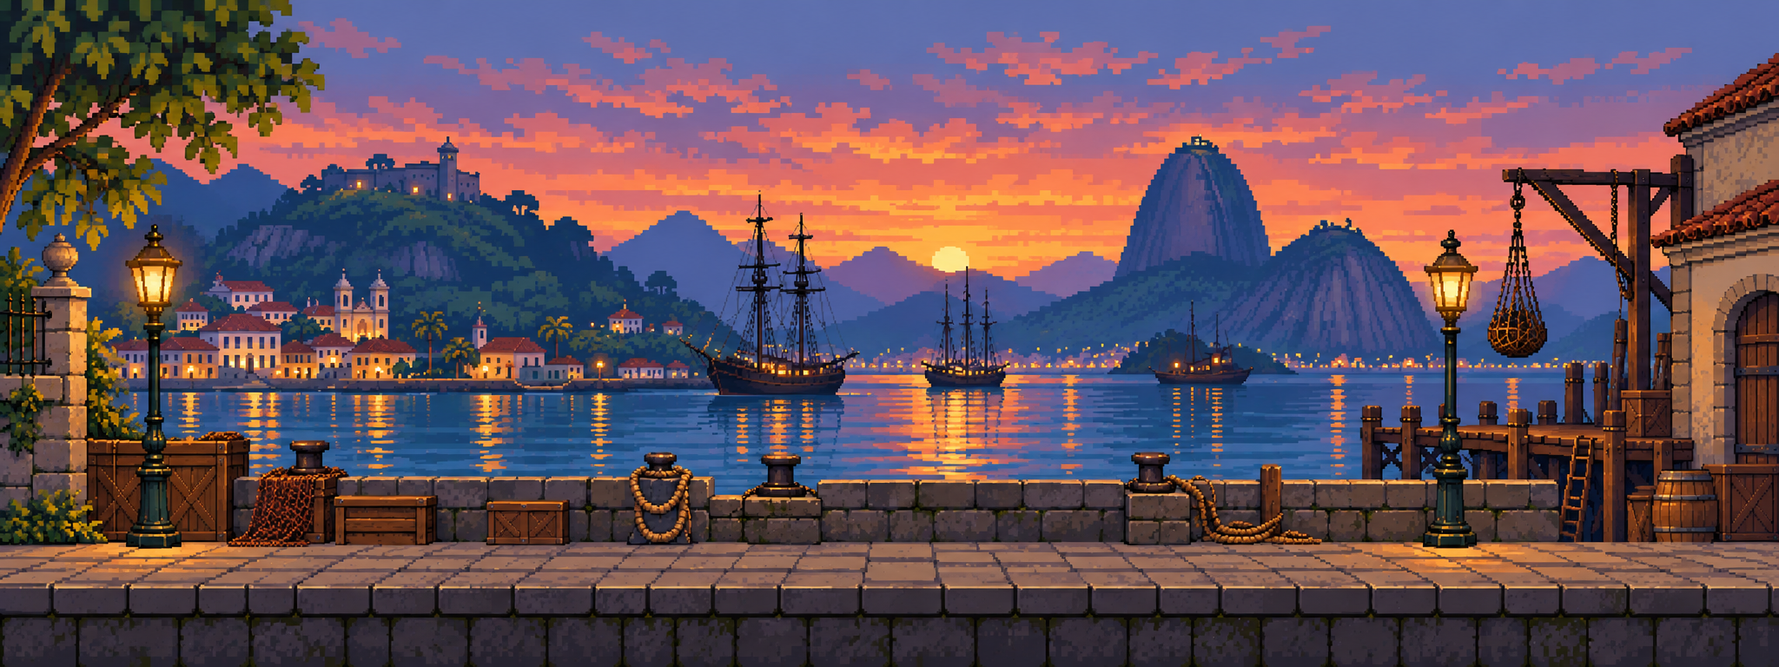
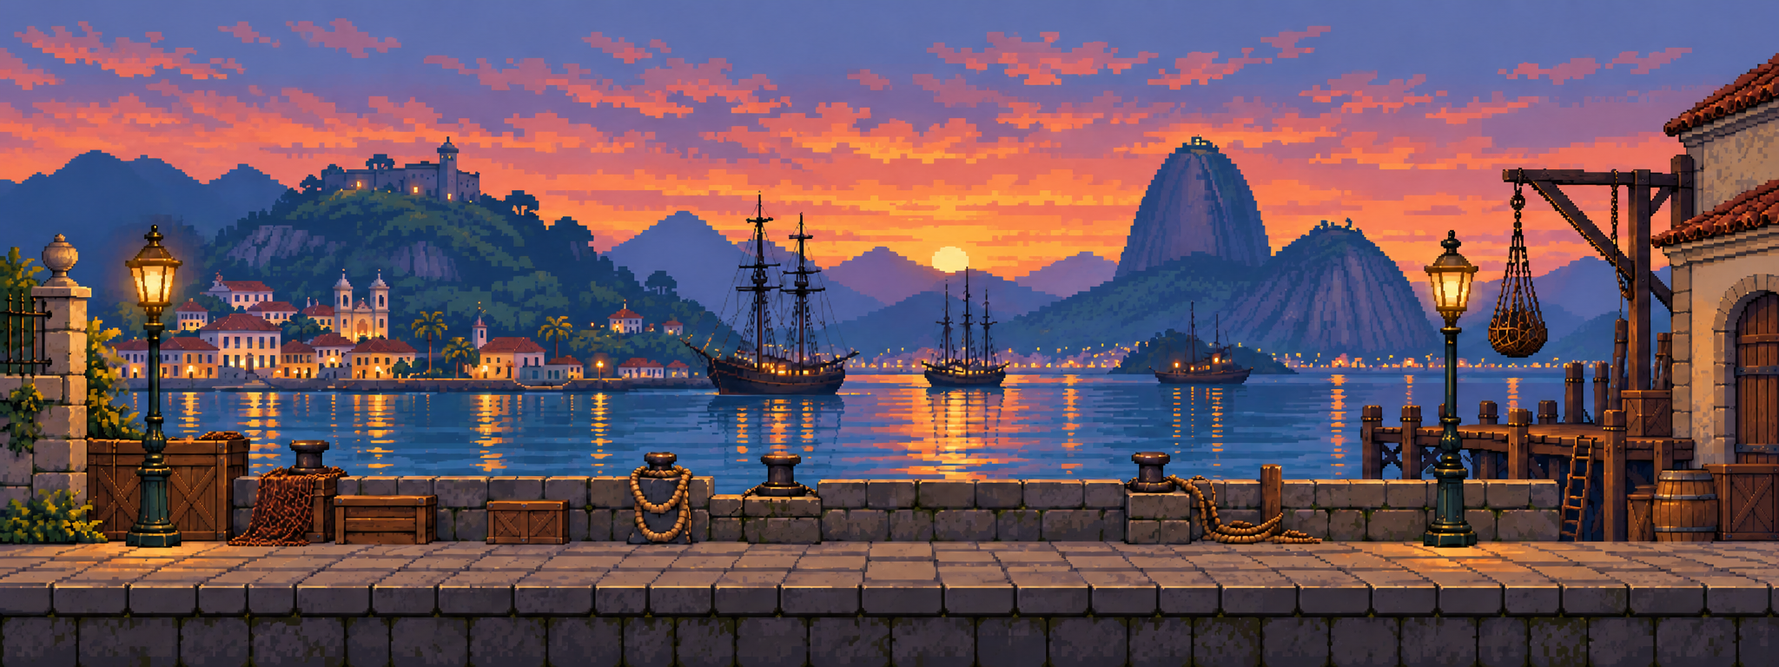
fix: alinha personagens e adiciona arte investigativa

diff --git a/frontend/game/main.ts b/frontend/game/main.ts
@@ -35,7 +35,7 @@ app.innerHTML = `
   <div id="exit-overlay" class="overlay" hidden><section class="exit-modal" role="dialog" aria-modal="true" aria-labelledby="exit-title" aria-describedby="exit-description"><header class="modal-heading"><div><p class="eyebrow">NO FIM DESTA RUA</p><h2 id="exit-title">Por onde seguimos?</h2></div><button class="icon-button" id="close-exit" aria-label="Ficar neste local" type="button">×</button></header><p id="exit-description">Escolha um caminho para continuar a investigação.</p><div id="exit-destinations" class="exit-destinations"></div><p id="exit-status" class="status" role="status" aria-live="polite"></p><button id="stay-here" class="button secondary" type="button">Ficar neste local</button></section></div>
 
   <div id="dialogue-overlay" class="overlay dialogue-overlay" hidden><section class="dialogue-modal" role="dialog" aria-modal="true" aria-labelledby="dialogue-name"><aside class="persona-panel"><div class="persona-frame"><img id="persona-portrait" src="" alt=""/></div><p class="eyebrow">DEPOIMENTO</p><h2 id="dialogue-name"></h2><span class="persona-flourish" aria-hidden="true">— ✦ —</span><p>Nem toda verdade vem à primeira pergunta.</p></aside><div class="conversation-panel"><header class="conversation-heading"><div><span class="conversation-dot"></span><span>Conversa com Floriano</span></div><button id="close-dialogue" class="icon-button" type="button" aria-label="Encerrar conversa">×</button></header><div id="messages" class="messages" role="log" aria-live="polite"></div><div id="dialogue-status" class="status dialogue-status" role="status" aria-live="polite"></div><div id="evidence-presenter" class="evidence-presenter" hidden><label for="present-evidence">Mostrar um vestígio</label><div><select id="present-evidence"></select><button id="present-button" class="button small" type="button">Apresentar</button></div><p id="presentation-status" role="status" aria-live="polite"></p></div><form id="message-form" class="message-form"><label class="sr-only" for="message-input">Sua pergunta</label><textarea id="message-input" rows="2" maxlength="8000" placeholder="O que você gostaria de perguntar?" required></textarea><button id="send-message" class="button primary" type="submit" aria-label="Enviar pergunta">Enviar <span aria-hidden="true">→</span></button></form><p class="form-hint">Enter para enviar · Shift + Enter para uma nova linha</p></div></section></div>
-  <div id="journal-overlay" class="overlay" hidden><section class="journal-modal case-modal" role="dialog" aria-modal="true" aria-labelledby="journal-title"><header class="modal-heading"><div><p class="eyebrow">EDIÇÃO DA MANHÃ · <span id="journal-day"></span></p><h2 id="journal-title">O Clarim do Rio</h2></div><button id="close-journal" class="icon-button" type="button" aria-label="Fechar jornal">×</button></header><p class="journal-motto">Os acontecimentos da cidade, à luz do dia.</p><h3 id="journal-headline"></h3><p id="journal-body"></p><p id="journal-location" class="journal-location"></p><button id="read-journal" class="button primary" type="button">Continuar a investigação</button></section></div>
+  <div id="journal-overlay" class="overlay" hidden><section class="journal-modal case-modal" role="dialog" aria-modal="true" aria-labelledby="journal-title"><header class="newspaper-masthead"><div class="newspaper-dateline"><span>RIO DE JANEIRO</span><span>EDIÇÃO DA MANHÃ</span><button id="close-journal" class="icon-button" type="button" aria-label="Fechar jornal">×</button></div><h2 id="journal-title">O Clarim do Rio</h2><div class="newspaper-edition"><span>NOTÍCIAS DA CIDADE · 1890</span><span id="journal-day"></span></div></header><article class="newspaper-story"><p class="journal-motto">Os acontecimentos da cidade, à luz do dia.</p><h3 id="journal-headline"></h3><figure id="journal-snapshot" class="journal-snapshot" hidden><img src="/assets/press/crime-scene-snapshot.png" alt="Registro monocromático de uma rua carioca à noite, com um chapéu caído e pegadas no calçamento."/><figcaption id="journal-snapshot-caption"></figcaption></figure><p id="journal-body"></p><p id="journal-location" class="journal-location"></p></article><button id="read-journal" class="button primary" type="button">Continuar a investigação</button></section></div>
   <div id="notebook-overlay" class="overlay" hidden><section class="case-modal notebook-modal" role="dialog" aria-modal="true" aria-labelledby="notebook-title"><header class="modal-heading"><div><p class="eyebrow">O CADERNO DE FLORIANO</p><h2 id="notebook-title">Vestígios e versões</h2></div><button id="close-notebook" class="icon-button" type="button" aria-label="Fechar caderno">×</button></header><p class="case-note">Um objeto pode ter muitos donos. Um depoimento registra uma versão, não uma certeza.</p><h3>Vestígios recolhidos</h3><div id="evidence-list" class="evidence-list"></div><h3>Depoimentos sobre objetos</h3><div id="testimony-list" class="testimony-list"></div><h3>Cenas conhecidas</h3><div id="crime-list" class="crime-list"></div></section></div>
   <div id="delegate-overlay" class="overlay" hidden><section class="case-modal delegate-modal" role="dialog" aria-modal="true" aria-labelledby="delegate-title"><header class="modal-heading"><div><p class="eyebrow">UM PEDIDO DE PRISÃO</p><h2 id="delegate-title">Na presença do delegado</h2></div><button id="close-delegate" class="icon-button" type="button" aria-label="Dispensar delegado">×</button></header><p class="case-note">Apresente objetos e depoimentos que sustentem sua suspeita. Se o delegado aceitar, haverá detenção nesta noite. A transformação na cela será a prova final.</p><form id="accusation-form"><label class="field-label" for="accused-npc">Quem você acusa?</label><select id="accused-npc" required></select><fieldset><legend>Vestígios</legend><div id="accusation-evidence"></div></fieldset><fieldset><legend>Depoimentos registrados</legend><div id="accusation-testimonies"></div></fieldset><p id="accusation-status" class="status" role="status" aria-live="polite"></p><button id="submit-accusation" class="button primary" type="submit">Apresentar acusação</button></form><div id="accusation-history"></div></section></div>
   <div id="phase-overlay" class="overlay phase-overlay" hidden><section class="case-modal phase-modal" role="dialog" aria-modal="true" aria-labelledby="phase-title" aria-describedby="phase-description"><span class="phase-moon" aria-hidden="true">☾</span><p class="eyebrow" id="phase-eyebrow">A CIDADE RECOLHE-SE</p><h2 id="phase-title">A noite guarda seus segredos.</h2><p id="phase-description">Floriano aguarda a manhã. Os acontecimentos serão publicados no Clarim do Rio.</p><p id="phase-countdown" role="status" aria-live="polite"></p><button id="ending-new-case" class="button primary" type="button" hidden>Iniciar outro caso</button></section></div>
@@ -329,6 +329,13 @@ function addText(parent: HTMLElement, tag: string, text: string, className?: str
 
 function locationName(id: LocationID) {return locations.find(location => location.id === id)?.name ?? id;}
 function itemKind(evidence: CaseEvidence) {return {unique: 'Exclusivo', singular: 'Singular', common: 'Comum'}[evidence.kind];}
+function itemArt(itemId: string, kind: CaseEvidence['kind']) {
+  const wrapper = document.createElement('span'); wrapper.className = `item-art item-art-${kind}`; wrapper.setAttribute('aria-hidden', 'true');
+  const svg = document.createElementNS('http://www.w3.org/2000/svg', 'svg'); svg.setAttribute('viewBox', '0 0 64 64');
+  const use = document.createElementNS('http://www.w3.org/2000/svg', 'use');
+  use.setAttribute('href', `/assets/items/item-icons.svg#${itemId}`); svg.append(use); wrapper.append(svg);
+  return wrapper;
+}
 
 async function applyCase(next: CasePublic, initial = false) {
   if (!world || (!initial && $('#investigation').hidden) || next.game_id !== world.game_id || (caseState && next.revision < caseState.revision)) return;
@@ -394,6 +401,10 @@ function renderJournal() {
   $('#journal-headline').textContent = edition?.headline ?? 'Uma cidade à espera de respostas';
   $('#journal-body').textContent = edition?.body ?? 'A edição desta manhã está sendo preparada.';
   $('#journal-location').textContent = edition?.location_id ? `Acontecimento registrado: ${locationName(edition.location_id)}.` : 'Nenhuma nova cena de crime foi anunciada.';
+  const snapshot = $<HTMLElement>('#journal-snapshot');
+  snapshot.hidden = !edition?.victim_id;
+  $('#journal-snapshot-caption').textContent = edition?.location_id
+    ? `Registro da madrugada · ${locationName(edition.location_id)}` : 'Registro de arquivo do Clarim do Rio';
 }
 
 function renderCase() {
@@ -413,14 +424,17 @@ function renderNotebook() {
   const inventory = $('#evidence-list'); inventory.replaceChildren();
   for (const evidence of caseState.inventory) {
     const item = document.createElement('article'); item.className = 'evidence-card'; item.dataset.evidenceId = evidence.id;
-    addText(item, 'span', itemKind(evidence), 'evidence-kind'); addText(item, 'h4', evidence.name);
-    addText(item, 'p', evidence.description); inventory.append(item);
+    item.append(itemArt(evidence.item_id, evidence.kind));
+    const details = document.createElement('div'); details.className = 'evidence-details';
+    addText(details, 'span', itemKind(evidence), 'evidence-kind'); addText(details, 'h4', evidence.name);
+    addText(details, 'p', evidence.description); item.append(details); inventory.append(item);
   }
   if (!caseState.inventory.length) addText(inventory, 'p', 'Nenhum vestígio recolhido. Procure as marcas de cena do crime no cenário.', 'empty-case');
   const testimonyList = $('#testimony-list'); testimonyList.replaceChildren();
   for (const testimony of caseState.testimonies) {
     const item = document.createElement('article'); item.className = 'testimony-card';
     const evidence = caseState.inventory.find(item => item.id === testimony.evidence_id);
+    if (evidence) item.append(itemArt(evidence.item_id, evidence.kind));
     addText(item, 'h4', `${testimony.witness_name} · dia ${testimony.day}`);
     addText(item, 'small', evidence?.name ?? 'Vestígio apresentado'); addText(item, 'p', testimony.text); testimonyList.append(item);
   }
@@ -431,11 +445,16 @@ function renderNotebook() {
 
 function renderPresentation() {
   const panel = $('#evidence-presenter'); const select = $<HTMLSelectElement>('#present-evidence');
+  let preview = $('#presented-evidence-art');
+  if (!preview) {preview = document.createElement('span'); preview.id = 'presented-evidence-art'; preview.className = 'item-art-preview'; select.before(preview);}
   const selected = select.value; select.replaceChildren();
   for (const evidence of caseState?.inventory ?? []) {
     const option = document.createElement('option'); option.value = evidence.id; option.textContent = evidence.name; select.append(option);
   }
   if ([...select.options].some(option => option.value === selected)) select.value = selected;
+  const selectedEvidence = caseState?.inventory.find(item => item.id === select.value);
+  preview.replaceChildren();
+  if (selectedEvidence) preview.append(itemArt(selectedEvidence.item_id, selectedEvidence.kind));
   panel.hidden = !caseState?.inventory.length;
   $('#present-button').toggleAttribute('disabled', busy || caseClock.blocked());
 }
@@ -447,16 +466,19 @@ function renderAccusation() {
     const option = document.createElement('option'); option.value = member.character.id; option.textContent = member.character.name; select.append(option);
   }
   if ([...select.options].some(option => option.value === selected)) select.value = selected;
-  const renderChoice = (container: HTMLElement, name: string, id: string, text: string) => {
+  const renderChoice = (container: HTMLElement, name: string, id: string, text: string, item?: CaseEvidence) => {
     const label = document.createElement('label'); label.className = 'proof-choice';
     const checkbox = document.createElement('input'); checkbox.type = 'checkbox'; checkbox.name = name; checkbox.value = id;
-    const title = document.createElement('span'); title.textContent = text; label.append(checkbox, title); container.append(label);
+    const title = document.createElement('span'); title.textContent = text; label.append(checkbox);
+    if (item) label.append(itemArt(item.item_id, item.kind));
+    label.append(title); container.append(label);
   };
   const evidence = $('#accusation-evidence'); evidence.replaceChildren();
-  caseState.inventory.forEach(item => renderChoice(evidence, 'evidence', item.id, `${item.name} · ${itemKind(item)}`));
+  caseState.inventory.forEach(item => renderChoice(evidence, 'evidence', item.id, `${item.name} · ${itemKind(item)}`, item));
   if (!caseState.inventory.length) addText(evidence, 'p', 'Você ainda não recolheu vestígios.', 'empty-case');
   const testimonies = $('#accusation-testimonies'); testimonies.replaceChildren();
-  caseState.testimonies.forEach(item => renderChoice(testimonies, 'testimony', item.id, `${item.witness_name}: ${item.text}`));
+  const inventorySnapshot = caseState.inventory;
+  caseState.testimonies.forEach(item => renderChoice(testimonies, 'testimony', item.id, `${item.witness_name}: ${item.text}`, inventorySnapshot.find(evidence => evidence.id === item.evidence_id)));
   if (!caseState.testimonies.length) addText(testimonies, 'p', 'Nenhum depoimento sobre objetos registrado.', 'empty-case');
   const attempted = caseState.accusations.some(accusation => accusation.day === caseState?.day);
   $('#submit-accusation').toggleAttribute('disabled', busy || caseClock.blocked() || attempted);
@@ -523,6 +545,7 @@ async function submitAccusation(event: Event) {
 setInterval(renderClock, 250);
 $('#inspect-crime').addEventListener('click', () => {void searchCrime();});
 $('#present-button').addEventListener('click', () => {void presentEvidence();});
+$('#present-evidence').addEventListener('change', () => renderPresentation());
 $('#accusation-form').addEventListener('submit', event => {void submitAccusation(event);});
 for (const panel of ['journal', 'notebook', 'delegate'] as const) {
   $(`#open-${panel}`).addEventListener('click', () => {void openCasePanel(panel);});

diff --git a/frontend/game/style.css b/frontend/game/style.css
@@ -225,24 +225,43 @@ kbd{font:10px/1.2 Arial,sans-serif;min-width:21px;padding:4px 5px;border:1px sol
 .case-modal .button.secondary{color:var(--ink)}
 .case-modal h3{font-size:23px;font-weight:normal;margin:25px 0 16px}
 .case-note,.empty-case{font:12px/1.75 Arial,sans-serif;color:#768065}
-.journal-modal{width:min(650px,100%);padding:35px 42px;text-align:center;background:linear-gradient(110deg,#f4ecd6,#e9dfc2)}
-.journal-modal .modal-heading{border-bottom:3px double #9e8d63;padding-bottom:20px;text-align:left}
-.journal-modal .modal-heading h2{font-size:37px;letter-spacing:-.03em}
-.journal-modal #journal-day{display:inline;width:auto;height:auto;background:none;margin:0;white-space:nowrap;vertical-align:baseline}
-.journal-motto{font:italic 12px Georgia,serif;border-bottom:1px solid #a9946b;padding:0 0 18px;color:#827956}
-.journal-modal h3{font-size:34px;line-height:1.16;margin-top:35px}
-#journal-body{font:16px/1.85 Georgia,serif;text-align:left}
-.journal-location{font:11px/1.7 Arial,sans-serif;color:#7c7f60;text-align:left;margin:22px 0 30px}
+.journal-modal{width:min(720px,100%);padding:22px 32px 28px;text-align:center;background:repeating-linear-gradient(0deg,#efe6ce 0,#efe6ce 4px,#eee4cb 5px,#efe6ce 7px)}
+.newspaper-masthead{position:relative;color:#26251f;border-bottom:4px double #35342d;padding-bottom:9px}
+.newspaper-dateline,.newspaper-edition{display:flex;align-items:center;justify-content:space-between;font:8px/1.4 Arial,sans-serif;letter-spacing:.15em;color:#555247}
+.newspaper-dateline{padding-right:30px}
+.newspaper-dateline .icon-button{position:absolute;right:0;top:-10px}
+.newspaper-masthead h2{font:bold 43px/.95 Georgia,serif;letter-spacing:-.045em;margin:11px 0 8px;color:#26251f}
+.newspaper-edition span:last-child{font-weight:bold}
+.newspaper-story{padding:0 2px;text-align:left;color:#292821}
+.journal-motto{font:italic 11px Georgia,serif;text-align:center;border-bottom:1px solid #a9946b;padding:11px 0;color:#716b58;margin:0}
+.journal-modal h3{font:bold 29px/1.08 Georgia,serif;letter-spacing:-.02em;margin:18px 0 13px;text-align:left;color:#25241f}
+.journal-snapshot{float:right;width:43%;margin:1px 0 14px 18px;padding:4px;background:#faf5e8;border:1px solid #9f967d;box-shadow:2px 3px 0 #655e4e30}
+.journal-snapshot img{display:block;width:100%;aspect-ratio:3/2;object-fit:cover;filter:grayscale(1) contrast(1.08);image-rendering:pixelated}
+.journal-snapshot figcaption{font:8px/1.5 Arial,sans-serif;letter-spacing:.06em;text-transform:uppercase;color:#625d50;padding:5px 2px 1px}
+#journal-body{font:14px/1.7 Georgia,serif;text-align:justify;margin:0 0 15px;white-space:pre-line}
+.journal-location{clear:both;font:9px/1.6 Arial,sans-serif;letter-spacing:.08em;text-transform:uppercase;color:#716b58;text-align:left;margin:16px 0 22px;padding-top:8px;border-top:1px solid #bcb194}
+.journal-modal>#read-journal{margin-top:10px}
 .evidence-list{display:grid;grid-template-columns:repeat(2,minmax(0,1fr));gap:12px}
-.evidence-card{padding:17px;background:#faf6e8;border:1px solid #c5ba95}
+.evidence-card{display:grid;grid-template-columns:68px minmax(0,1fr);gap:13px;align-items:center;padding:12px;background:#faf6e8;border:1px solid #c5ba95}
+.item-art{display:grid;place-items:center;flex:0 0 54px;width:54px;height:54px;background:#e9dfc7;border:1px solid #c2b58f;image-rendering:pixelated}
+.item-art svg{display:block;width:46px;height:46px;shape-rendering:crispEdges}
+.item-art-unique{background:#ece2c9;border-color:#a8884d}
+.item-art-singular{background:#e7e4d2;border-color:#879076}
+.item-art-common{background:#eee9dc;border-color:#c5ba95}
+.evidence-details{min-width:0}
 .evidence-kind{font:8px Arial,sans-serif;letter-spacing:.14em;text-transform:uppercase;color:#9a7a3d}
 .evidence-card h4,.testimony-card h4{font-size:17px;font-weight:normal;margin:8px 0}
 .evidence-card p,.testimony-card p,.crime-list p{font:12px/1.8 Arial,sans-serif;margin:8px 0;color:#5c6b52}
-.testimony-card{border-left:2px solid #8f9b73;padding:8px 16px;margin:14px 0;background:#dfe2c830}
+.testimony-card{display:grid;grid-template-columns:54px minmax(0,1fr);column-gap:12px;align-items:center;border-left:2px solid #8f9b73;padding:10px 14px;margin:14px 0;background:#dfe2c830}
+.testimony-card h4,.testimony-card small,.testimony-card p{grid-column:2}
+.testimony-card .item-art{grid-column:1;grid-row:1/4}
 .testimony-card small{font:10px Arial,sans-serif;color:#8a7e59}
 .evidence-presenter{flex-shrink:0;margin:0 23px 0;padding:8px 0;border-top:1px solid #c8bc9470}
 .evidence-presenter>label{font:9px Arial,sans-serif;color:#7a805d;display:block;margin-bottom:6px}
-.evidence-presenter>div{display:flex;gap:8px}
+.evidence-presenter>div{display:flex;gap:8px;align-items:center}
+.item-art-preview:empty{display:none}
+.evidence-presenter .item-art{flex-basis:42px;width:42px;height:42px}
+.evidence-presenter .item-art svg{width:36px;height:36px}
 .evidence-presenter select{flex:1;min-width:0;padding:7px;border:1px solid #bbb28c;background:#f7f1de;color:var(--ink);font:11px Arial,sans-serif}
 .evidence-presenter .button{background:#dfe2c8;border-color:#9fa47c;color:#294731;padding:8px 10px;font-size:10px}
 #presentation-status{font:11px/1.65 Arial,sans-serif;color:#607651;margin:6px 0 0;max-height:80px;overflow-y:auto}
@@ -252,8 +271,10 @@ kbd{font:10px/1.2 Arial,sans-serif;min-width:21px;padding:4px 5px;border:1px sol
 .delegate-modal legend,.field-label{font:11px Arial,sans-serif;color:#63734f}
 .field-label{display:block;margin:20px 0 8px}
 #accused-npc{width:100%;padding:12px;background:#faf6e7;border:1px solid #aaa780;color:var(--ink);font:15px Georgia,serif}
-.proof-choice{display:flex;gap:10px;align-items:flex-start;font:12px/1.7 Arial,sans-serif;padding:8px 0;color:#4e654e;cursor:pointer}
+.proof-choice{display:flex;gap:10px;align-items:center;font:12px/1.7 Arial,sans-serif;padding:8px 0;color:#4e654e;cursor:pointer}
 .proof-choice input{margin-top:4px;accent-color:#496d4b}
+.proof-choice .item-art{width:34px;height:34px;flex-basis:34px}
+.proof-choice .item-art svg{width:30px;height:30px}
 .accusation-result{border-top:1px solid #c3b38b;margin-top:20px;padding-top:16px;font:12px/1.8 Arial,sans-serif;color:#667253}
 .accusation-result strong{color:#37543e}
 .phase-overlay{z-index:25;background:#041914ef}
@@ -269,9 +290,13 @@ kbd{font:10px/1.2 Arial,sans-serif;min-width:21px;padding:4px 5px;border:1px sol
 .day-clock small{grid-column:auto;margin-left:4px}
 .day-clock strong{font-size:22px}
 .case-modal{padding:20px;max-height:calc(100dvh - 24px)}
-.journal-modal .modal-heading h2{font-size:30px}
-.journal-modal h3{font-size:27px}
-#journal-body{font-size:14px}
+.journal-modal{padding:18px 17px 22px}
+.newspaper-masthead h2{font-size:34px}
+.newspaper-dateline{padding-right:30px}
+.newspaper-dateline .icon-button{right:0;top:-8px}
+.journal-modal h3{font-size:24px}
+.journal-snapshot{float:none;width:100%;margin:0 0 14px}
+#journal-body{font-size:13px}
 .evidence-list{grid-template-columns:1fr}
 .evidence-presenter{margin:0 16px;padding-top:6px}
 #presentation-status{max-height:70px;font-size:10px}

diff --git a/frontend/game/scene.ts b/frontend/game/scene.ts
@@ -35,7 +35,8 @@ const AMBIENT: Record<LocationID, AmbientPlacement[]> = {
     {frame: 'cat', x: 805, y: 307, width: 33, height: 27}, {frame: 'bird', x: 550, y: 120, width: 18, height: 16, drift: 18},
   ],
   cais_lanternas: [
-    {frame: 'tree', x: 100, y: 279, width: 115, height: 153}, {frame: 'citizen-man', x: 700, y: 293, width: 48, height: 76},
+    // Keep the gas lamp on the left readable; the backdrop already has a tree behind it.
+    {frame: 'citizen-man', x: 700, y: 293, width: 48, height: 76},
     {frame: 'cat', x: 320, y: 306, width: 34, height: 27, drift: 8}, {frame: 'dog', x: 785, y: 307, width: 44, height: 30},
     {frame: 'bird', x: 610, y: 118, width: 18, height: 16, drift: 30}, {frame: 'bird', x: 765, y: 85, width: 17, height: 15, drift: 26},
   ],
@@ -129,7 +130,7 @@ export class CityScene extends Phaser.Scene {
     else this.input.keyboard.disableGlobalCapture();
   }
 
-  private dressLocation(id: LocationID) {
+  private dressLocation(id: LocationID, groundY: number) {
     this.ambient.forEach(object => object.destroy()); this.ambient = []; this.wanderers = [];
     if (!this.textures.exists('scene-life')) return;
     this.textures.get('scene-life').setFilter(Phaser.Textures.FilterMode.NEAREST);
@@ -142,7 +143,9 @@ export class CityScene extends Phaser.Scene {
       if (placement.drift && !this.reducedMotion) this.wanderers.push({image, placement});
     }
     if (id === 'cais_lanternas' && this.textures.exists('capoeira')) {
-      const roda = this.add.sprite(440, 282, 'capoeira', '0').setOrigin(.5, 480 / 512).setDepth(-2);
+      // The atlas feet baseline is y=480 in a 512px frame. Place that baseline
+      // on the walkable pavement, at the same ground_y as every person sprite.
+      const roda = this.add.sprite(440, groundY, 'capoeira', '0').setOrigin(.5, 480 / 512).setDepth(-2);
       roda.setDisplaySize(168, 112);
       if (!this.reducedMotion) roda.play('capoeira-roda');
       this.ambient.push(roda);
@@ -184,7 +187,7 @@ export class CityScene extends Phaser.Scene {
       this.background?.destroy();
       this.background = this.add.image(0, 0, `location-${world.location.id}`).setOrigin(0)
         .setDisplaySize(world.location.width, world.location.height).setDepth(-10).setScrollFactor(0);
-      this.dressLocation(world.location.id);
+      this.dressLocation(world.location.id, world.location.ground_y);
       this.npcSignature = '\0';
       this.drawCaseMarkers();
       if (!this.player) {

diff --git a/docs/art_direction.md b/docs/art_direction.md
@@ -50,3 +50,11 @@ Nenhum pixel foi desenhado ou retocado por script; o tratamento por código se l
 ## Revisão dos ambientes
 
 Os cinco fundos foram simplificados por `image_gen built-in`, preservando os marcos e a composição de cada local. A tela passa a960×360, com câmera fixa. O atlas `frontend/public/assets/ambient/scene-life.png` reúne árvore, cão, gato, pássaro e dois cidadãos figurantes. O PNG tem transparência verdadeira; `scene-life.json` contém os retângulos medidos pelo alfa, sem editar os pixels. As caixas de exibição preservam as proporções dos recortes. Os figurantes não são suspeitos ou agentes de investigação. Prompts completos, modo de geração, fontes, dimensões e hashes estão em [prompts.json](../frontend/public/assets/ambient/prompts.json). Os PNGs dos fundos estão em `frontend/public/assets/locations/`; os originais permanecem no histórico Git.
+
+## Linha de chão, jornal e vestígios
+
+Os personagens usam a origem `y=684/724` do manifesto e ficam na coordenada `ground_y` da localização. A roda de capoeira usa baseline virtual `480/512` e agora também recebe `ground_y`; na versão anterior era posicionada em y=282, acima do passeio. A árvore decorativa em x=100 foi retirada, e a árvore em primeiro plano do fundo foi removida por image_gen, deixando o poste esquerdo do cais livre. A edição está registrada em `assets/locations/cais-lanternas-edit.json`.
+
+O Clarim abre como uma página de jornal: cabeçalho do Rio, edição do dia, manchete, texto e localização. A imagem monocromática `assets/press/crime-scene-snapshot.png` representa o registro jornalístico do acontecimento sem identificar culpado ou vítima. O arquivo é uma ilustração de arquivo compartilhada entre edições, não uma fotografia dinâmica específica de cada crime; título, relato e local são os dados reais da edição. Prompt, fonte e hash ficam em `assets/press/snapshot-prompts.json`.
+
+Os vinte apetrechos do catálogo têm símbolos vetoriais próprios em `assets/items/item-icons.svg`, indexados por `item_id` no [manifesto](../frontend/public/assets/items/manifest.json). A interface mostra o mesmo objeto no caderno, ao selecionar a apresentação para um NPC, nos depoimentos e nas provas da acusação. Os traços geométricos usam contornos e cores de papel, latão, couro, vinho e verde do jogo; a distinção entre exclusivo, singular e comum também aparece na moldura do cartão.

diff --git a/docs/entrega_ciclo_investigacao.md b/docs/entrega_ciclo_investigacao.md
@@ -36,6 +36,8 @@ Artefatos locais ignorados pelo Git: `artifacts/cycle-evidence.png`, `artifacts/
 
 ## Arte e execução
 
-Assets finais gerados por **image_gen built-in**: `frontend/public/assets/ambient/clarim.png` e `capoeira.png`, acompanhados de seus atlas JSON. Prompts completos e proveniência: [clarim-prompts.json](../frontend/public/assets/ambient/clarim-prompts.json) e [capoeira-prompts.json](../frontend/public/assets/ambient/capoeira-prompts.json). Somente metadados de recorte foram calculados por código; os pixels gerados não foram retocados por script.
+Assets finais gerados por **image_gen built-in**: `frontend/public/assets/ambient/clarim.png`, `capoeira.png` e `assets/press/crime-scene-snapshot.png`, acompanhados de atlas/proveniência JSON. A banca mantém a identidade verde e cobre; o Clarim agora apresenta uma página tipográfica com manchete e relato do dia, acompanhada de uma ilustração monocromática da madrugada. A imagem é uma cena de arquivo reutilizada, enquanto manchete, texto e local vêm da edição real. Os vinte apetrechos usam símbolos vetoriais com IDs iguais aos do catálogo em `assets/items/item-icons.svg`; o mesmo desenho é exibido ao recolher, apresentar e citar um vestígio. A roda de capoeira e os personagens compartilham a linha `ground_y`, e a árvore decorativa que cobria o poste esquerdo do cais foi removida.
+
+Prompts completos: [clarim-prompts.json](../frontend/public/assets/ambient/clarim-prompts.json), [capoeira-prompts.json](../frontend/public/assets/ambient/capoeira-prompts.json) e [snapshot-prompts.json](../frontend/public/assets/press/snapshot-prompts.json). O catálogo visual dos itens está em [manifest.json](../frontend/public/assets/items/manifest.json).
 
 Serviços locais: jogo em `http://localhost:7077`, admin em `http://localhost:7078`, API em `http://localhost:7079/docs`. Docker usa os dados Redis e as credenciais já configuradas. O Redis de testes é separado e não precisa permanecer ativo depois da validação.
